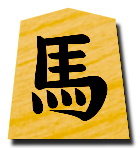
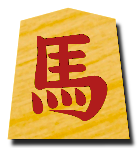
feat(web): 成り駒の文字を赤にする
sunfish-shogi/shogi-images の hitomoji_wood（CC0）の成り駒 6 種を、実物の駒に合わせて黒から赤に塗り替えた。木目セットには赤い成り駒が無いため。出典と変更点を README に記録。

Changed region(s): [[0.2286, 0.2162, 0.7714, 0.8378], [0.2286, 0.6216, 0.3143, 0.7838]]

diff --git a/apps/web/public/pieces/README.md b/apps/web/public/pieces/README.md
@@ -1,0 +1,5 @@
+# 駒画像
+
+[sunfish-shogi/shogi-images](https://github.com/sunfish-shogi/shogi-images) の `hitomoji_wood`（CC0 1.0 Universal）を使っています。
+
+成り駒（`black_dragon` / `black_horse` / `black_prom_silver` / `black_prom_knight` / `black_prom_lance` / `black_prom_pawn`）は、実物の駒に合わせて文字を黒から赤に塗り替えています（元の配布物の木目セットには赤い成り駒が無いため）。形と木目は元のままです。
